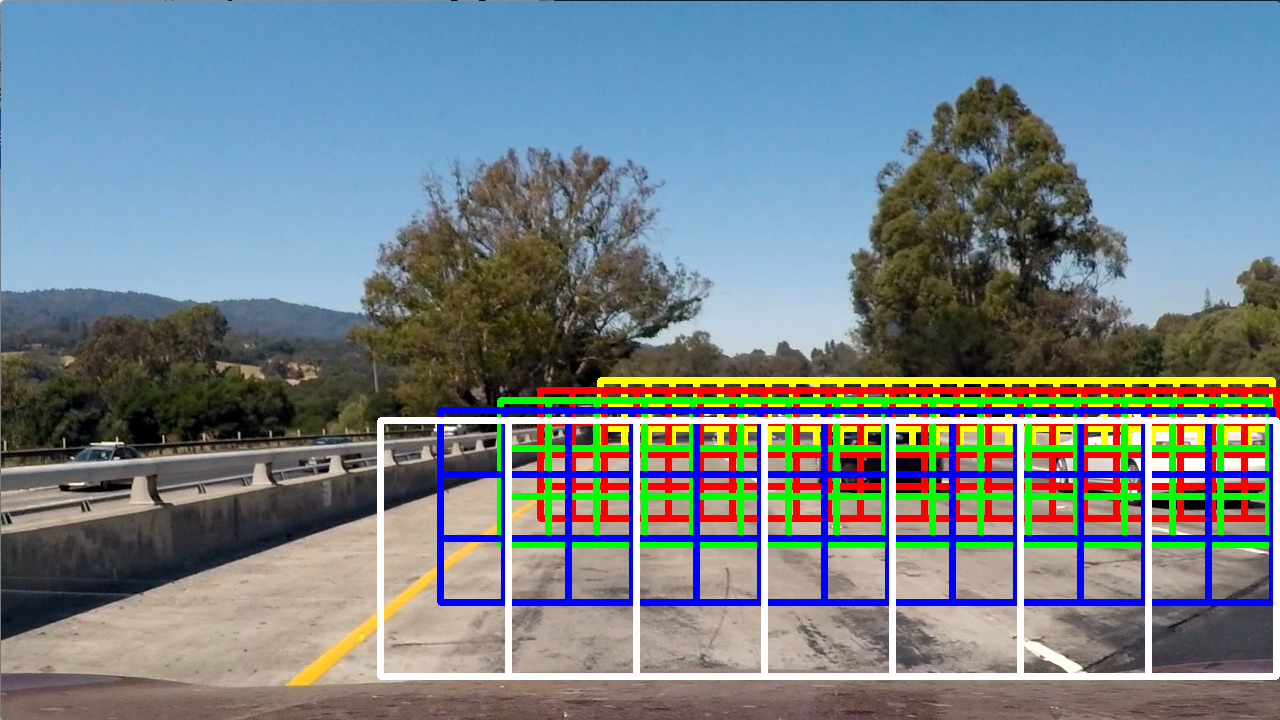
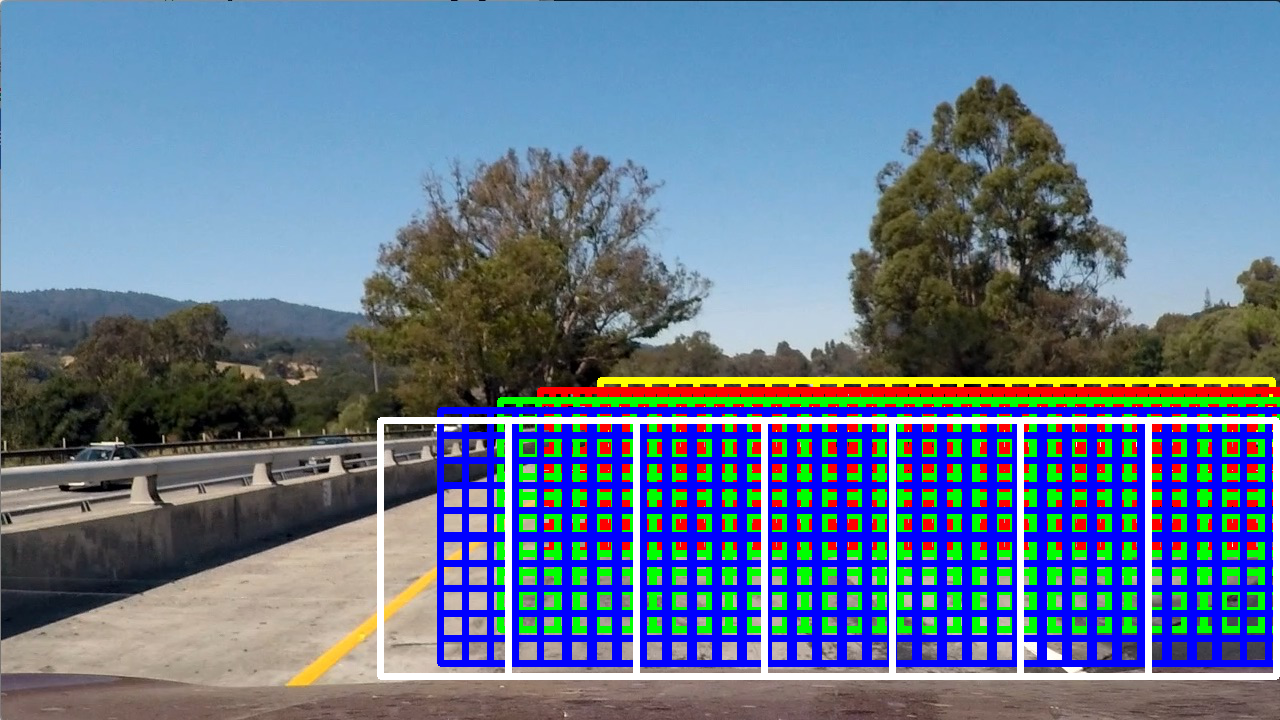
docs: Provide more detail on color space selection and parameter search

Changed region(s): [[0.3438, 0.55, 1.0, 0.9472]]

diff --git a/README.md b/README.md
@@ -10,12 +10,14 @@ The goals / steps of this project are the following:
 * Estimate a bounding box for vehicles detected.
 
 [//]: # (Image References)
-[image1]: ./output_images/car_noncar.png
-[image2]: ./output_images/hog_features.png
-[image3]: ./output_images/search_windows.png
-[image4]: ./output_images/detections.png
-[image5]: ./output_images/heatmap.png
-[image6]: ./output_images/final.png
+[image1]: ./output_images/car_noncar1.png
+[image2]: ./output_images/car_noncar2.png
+[image3]: ./output_images/car_noncar3.png
+[image4]: ./output_images/hog_features.png
+[image5]: ./output_images/search_windows.png
+[image6]: ./output_images/detections.png
+[image7]: ./output_images/heatmap.png
+[image8]: ./output_images/final.png
 [video1]: ./video/final.mp4
 
 ##Histogram of Oriented Gradients (HOG)
@@ -24,26 +26,40 @@ The goals / steps of this project are the following:
 
 The code for this step is contained in lines 87 through 135 of the file called `vehicle_detection.py` in the function `extract_features()`.  
 
-For this project Udacity provided a training set of car and non-car images that come from  a combination of the GTI vehicle image database and the KITTI vision benchmark suite. I began by reading in all of the `vehicle` and `non-vehicle` images to get a sense of the training data for extracting HOG features.
+For this project Udacity provided a training set of car and non-car images that come from  a combination of the GTI vehicle image database and the KITTI vision benchmark suite. I began by reading in all of the `vehicle` and `non-vehicle` images to get a sense of the training data for extracting HOG features. Each image in the dataset is saved as a 64x64 PNG and read in for training. 
 
-Here is an example of one of each of the `vehicle` and `non-vehicle` classes:
+Here are some examples of the `vehicle` and `non-vehicle` classes:
 
 ![alt text][image1]
-
-I experimented with a wide range of color spaces and different parameters for color extraction, spatial binning and HOG feature extraction and in the end found that the parameters that worked the best of training a classifier were they `YUV` color space and HOG parameters of `orientations=9`, `pixels_per_cell=(8, 8)` and `cells_per_block=(2, 2)`.
-
-Here is an example of the features extracted using the final parameters I settled on for implementing my pipeline:
-
 ![alt text][image2]
+![alt text][image3]
+
+I experimented with a wide range of color spaces and different parameters for color extraction, spatial binning and HOG feature extraction. To find the best parameters I started by using the highest resolution possible for each possible setting and then narrowing it down from there. The initial features included all HOG channels, 64x64 spatial bins, 64 histogram bins, 9 hog orientations, 8 pixels per cell, and 2 cells per block. This allowed me to isolate the effects that color space has on training a classifier. I then began testing each possible color space to see which one provided the highest accuracy on the test set. The accuracy results of these tests were:
+
+| Color Space   | Accuracy      | 
+|:-------------:|:-------------:|
+| RGB			| 0.9814		| 
+| HSV           | 0.9932        | 
+| LUV           | 0.9904        |
+| HLS           | 0.9907        |
+| YUV           | 0.9870        |
+| YCrCb 	    | 0.9913		|
+
+'RGB' performed the worst, and the rest all had fairly similar accuracy with HSV getting the best overall accuracy of 0.9932 on the test set. Originally, I experimented with lowering some of the additional parameters to just use a single hog channel, or lowering the orientations, spatial_size and hist_bins significantly. While this served to lower the feature space, and increased training and testing time, it ended up having a negative impact on the accuracy of the classifier. In the end, I found that the parameters that worked the best for training a classifier while reducing the feature space as much as possible, were the `HSV` color space and HOG parameters of `hog_channel="ALL"`, `orientations=9`, `pixels_per_cell=(8, 8)`, `cells_per_block=(2, 2)`, `spatial_size=(32,32)`, and `hist_bins=32`.
+
+
+Here is an example of the HOG features extracted using the final parameters I settled on for implementing my pipeline:
+
+![alt text][image4]
 
 ###Choosing HOG parameters.
 
-I experimented with various parameters and using different hog channels and in the end I chose the one that seemed to provide the best accuracy over the entire dataset. I ended up using only HOG channel 0 combined with color histogram features, and spatial histogram features. I think there is still a lot of exploration that could be done in this area though to find evbetter parameters. I was trying to balance the need for speed of prediction with getting the best accuracy possible, and I settled on the set of parameters I chose by trying to find the sweet spot where I wasn't including too many features, but just enough to accurately classify the test windows as vehicle or non-vehicle.
+I experimented with various parameters and using different hog channels and in the end I chose the one that seemed to provide the best accuracy over the entire dataset. I ended up using all three HOG channels combined with color histogram features, and spatial histogram features. I think there is still a lot of exploration that could be done in this area though to find even better parameters. I was trying to balance the need for speed of prediction with getting the best accuracy possible, and I settled on the set of parameters I chose by trying to find the sweet spot where I wasn't including too many features, but just enough to accurately classify the test windows as vehicle or non-vehicle. However, with a runtime of nearly 2 seconds per frame, this isn't practical for real time detection in it's current form, and would require additional experimentation to reduce the feature and search space in order to increase the frame rate.
 
 ###Training a Classifier
 The code for this step is contained in lines 300 through 360 of the file called `vehicle_detection.py` in the function `train_classifier()`.
 
-I trained a linear SVM using a balanced sample of vehicle and non-vehicle images from the data set. Using the feature extraction method described above, I extracted features for both vehicle and non-vehicle images and scaled the features to have zero mean and unit variance. I then split the data into 80% training set and 20% test set for validating the accuracy of the classifier. With image in the 'YUV' color space, using Hog Channel 0, combined with color and spatial histograms, I was able to achieve approximately 0.985 accuracy on the test set. I was able to achieve higher accuracy on the order of 0.99 using slightly different parameters but it effected the run time and space considerations significantly, so I decided to pay a slight cost on accuracy to improve performance.
+I trained a linear SVM using a balanced sample of vehicle and non-vehicle images from the data set. Using the feature extraction method described above, I extracted features for both vehicle and non-vehicle images and scaled the features to have zero mean and unit variance. I then split the data into 80% training set and 20% test set for validating the accuracy of the classifier. With image in the 'HSV' color space, using all 3 HOG channels, combined with color and spatial histograms, I was able to achieve approximately 0.993 accuracy on the test set. Feeling satisfied with the trained classifier I started to move on to testing the pipeline on real images and video streams.
 
 ##Sliding Window Search
 
@@ -51,17 +67,17 @@ The code for this step is contained in lines 152 through 221 of the file called 
 
 I tested out different window sizes looking for both the minimum window size that could accurately detect car positions, and the maximum window size that could accurately detect car positions. For the minimum window size I found that 48x48 windows worked relatively well, and for the maximum I chose 256x256. Then I chose three intermediate window sizes in between and staggered them to make sure that as the cars moved into the distance I could pick up subtle variations due to their depth in the image. Since the cars are constrained to the road way I also limited the search space to only look in the lower half of the image and not search areas that contain mostly sky, or trees or other environment features. For the overlap, I found that significant overlap didn't didn't help that much with detection and just increased the time it took to do detection, so I kept an overlap of around 0.5 for each window.
 
-![alt text][image3]
+![alt text][image5]
 
 ###Vehicle Detection Pipeline
 
 One of the more challenging parts of doing vehicle deteciton was in trying to eliminate the large number of false positives that occured in the sliding window search. To eliminate these, I first tried to make sure that the region of interest where I was searching was constrained to the road surface. I chose global values for the search space, but in the future I would like to experiment with deriving these values dynamically using the lane finding process that I've developed. 
 
-Ultimately I searched on 5 scales using YUV color space, 1-channel HOG features plus spatially binned color and histograms of color in the feature vector, which provided the following result.  
+Ultimately I searched on 5 scales using HSV color space, 3-channel HOG features plus spatially binned color and histograms of color in the feature vector, which provided the following result.  
 
 Below is an example of the raw detections for a test image:
 
-![alt text][image4]
+![alt text][image6]
 ---
 
 ## Video Implementation
@@ -73,16 +89,16 @@ Below is an example of the raw detections for a test image:
 
 The code for this step is contained in lines 362 through 422 of the file called `vehicle_detection.py` in the function `pipeline()`. Here I have all the video processing steps for defining the search windows, averaging them over multiple frames, and applying a heatmap and threshold for eliminating false positives.
 
-After using the extracted features to make detections for each frame of the video, the other thing that was critical was to apply a heat map to accumulate and average detections over several frames of video. By applying a threshold to the averaged heat map, it made sure that only really strong detections were kept for the final output. This greatly reduces the number of false positives by eliminating detections that only occur on a single frame but aren't detected on subsequent frames. This leaves you with only the detections that are truly associated with a vehicle and allows you to group the heat map detections into discrete labels associated with multiple vehicles being detected. Using this final heat map I was able to draw the bounding boxes to accurately identify the vehicles in the image.  
+After using the extracted features to make detections for each frame of the video, the other thing that was critical was to apply a heat map to accumulate and average detections over several frames of video. By applying a threshold to the averaged heat map, it made sure that only really strong detections were kept for the final output. This greatly reduces the number of false positives by eliminating detections that only occur on a single frame but aren't detected on subsequent frames. This leaves you with only the detections that are truly associated with a vehicle and allows you to group the heat map detections into discrete labels associated with multiple vehicles being detected. Using this final heat map I was able to draw the bounding boxes to accurately identify the vehicles in the image.
 
 ### Raw Detections
-![alt text][image4]
+![alt text][image6]
 
 ### Heat Map
-![alt text][image5]
+![alt text][image7]
 
 ### Final Bounding Boxes
-![alt text][image6]
+![alt text][image8]
 
 ---
 
@@ -93,4 +109,8 @@ Overall I am happy with the initial implementation, and the detection seems to b
 As always this pipeline has only been tested on a limited amount of video, which contains ideal weather conditions and lighting. To prove the robustness of the process, it is important to gather a lot more training data and test out detecting vehicles, in day time and night time on a variety of road surfaces, with varying lighting conditions. I also would like to spend a lot more time tuning the various parameters to improve the accuracy of the classifier, and improve the process for thresholding the heat map so that the detected bounding boxes search in a neighborhood of the detections, instead of applying a global threshold. There is also a lot more room to experiment with different color spaces, feature types and window size for tuning the overall process. Beyond tuning the current pipeline it would also be interesting to use a neural network for doing the classification and comparing how well it performs vs. the HOG linear support vector machine approach.
 
 In addition to tuning the algorithm, it is also important to improve the runtime and memory requirements for this process. My pipeline currently only runs at 2 frames per second and would need to be sped up a lot to be useful in a real vehicle. I think reducing the search space and limiting the number of features to some core subset, as well as experimenting with different classifiers could help in both regards. 
+
+# Narrow down the search space
+# Narrow down the feature space
+# Accuracy vs. Speed tradeoff
 
